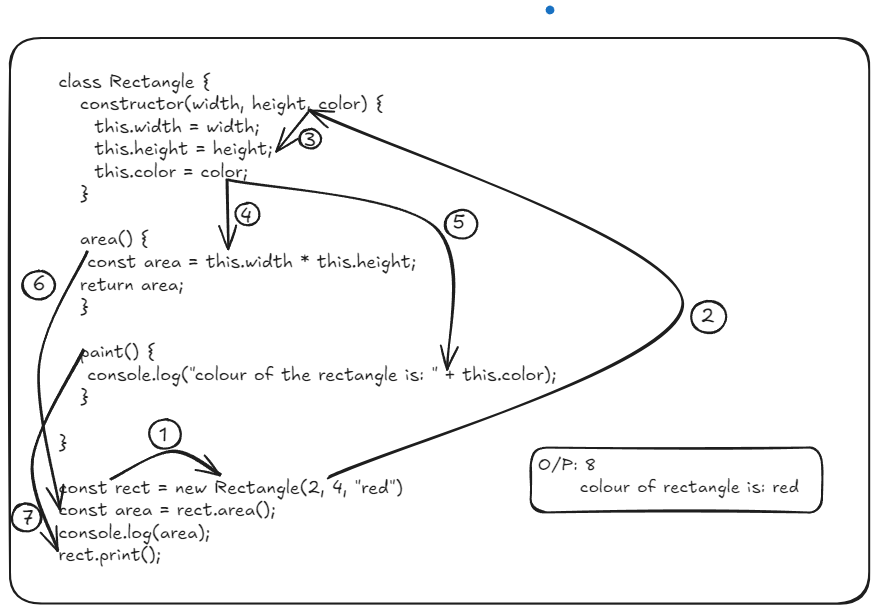
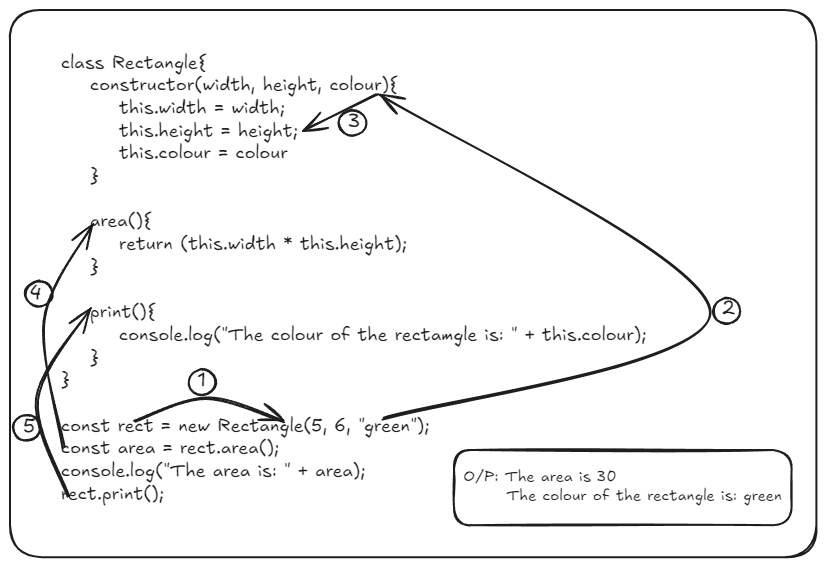
fixed some little issues

diff --git a/index.html b/index.html
@@ -134,7 +134,7 @@
                         class
                         with the help of yesterday's code:</p>
                     <div class="flex justify-center py-5">
-                        <img src="./public/CLASS2.PNG" alt="control flow of class" class="w-[50vw] rounded-2xl">
+                        <img src="./public/CLASS1.PNG" alt="control flow of class" class="w-[50vw] rounded-2xl">
                     </div>
                     <div>
                         <p class="font-fontPop font-bold text-xl pb-5 border-b-2">Let's understand the steps:</p>
@@ -149,13 +149,11 @@
                                 (<i>'width'</i>, <i>'height'</i>, and <i>'color'</i>) is assigned to the properties of
                                 the <i>'rect'</i> object using <i>'this'</i>.</p>
                             <p><b>Step 4: </b>After the object is created, the next step is calling the <i>'area'</i>
-                                method. The <i>'area'</i> method is invoked on the <i>'rect'</i> object. Here, the
-                                <i>'area'</i> is calculated by multiplying <i>'this.width'</i> by <i>'this.height'</i>.
+                                method. The <i>'area'</i> method is called on the <i>'rect'</i> object. Here, the
+                                <i>'area'</i> is calculated by multiplying <i>'this.width'</i> by <i>'this.height'</i> and "The area is 30 will be printed" by <i>'console.log("The area is: " + area)'</i>.
                             </p>
-                            <p><b>Step 5: </b>This arrow points to the <i>'paint'</i> method which will print "colour of
+                            <p><b>Step 5: </b>This arrow calls to the <i>'paint'</i> function which will print "colour of
                                 Rectangle is:" + <i>'this.colour'</i>. </p>
-                            <p><b>Step 6: </b> The next step is printing the area.</p>
-                            <p><b>Step 7: </b> The next step is printing the colour.</p>
                         </div>
                     </div>
                 </div>
